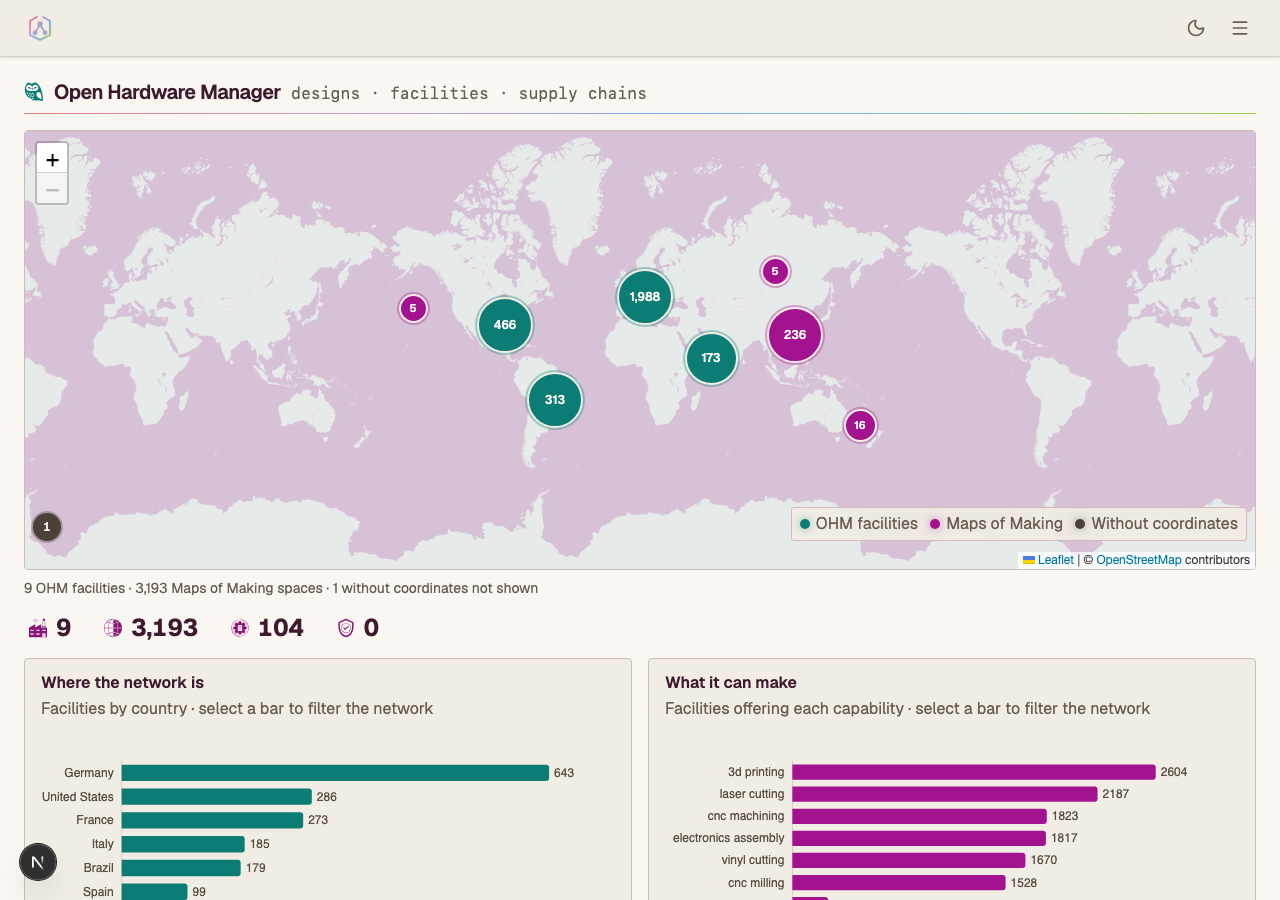
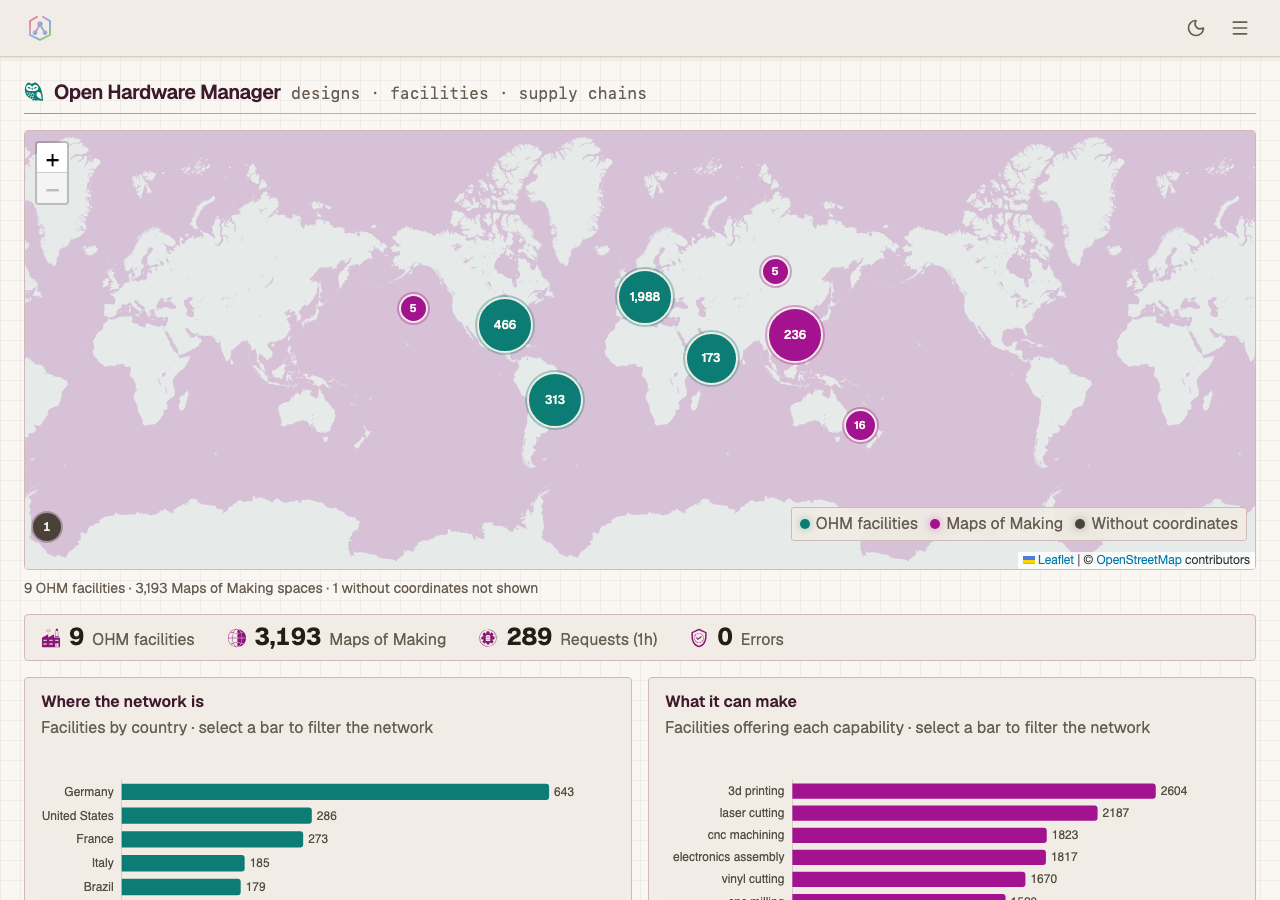
Add: README assets for keyboard, themes, a11y, and the 360px layout; correct stale frontend claims
The README described the interface's look but not the properties the suite
actually gates. The asset lane now captures eight images instead of four,
covering the theme picker, the /help keyboard and accessibility tables, the
skip link, and the dashboard at 360px, and the interface section is
restructured into Themes / Keyboard / Accessibility / Responsive.

Capture fixes in e2e/readme-assets.spec.ts:

- `next dev` mounts its dev-tools button into a <nextjs-portal>. It appeared in
  the corner of every committed screenshot and, being focusable, answered the
  first Tab — the keystroke the skip-link shot exists to photograph. Hidden via
  an injected style for all shots.
- sitemap-drawer was captured fullPage. The drawer is a viewport-height panel
  that scrolls inside itself, so a tall dashboard rendered it as a column
  ending in mid-air with the Theme and Keyboard blocks cut off. Now cropped to
  the fold.
- Fragment-anchored shots scroll after the settle, not before: the fragment
  resolves at navigation, when the target has not hydrated, and panels mounting
  above it push the heading back off screen. scrollIntoView rather than
  Playwright's scrollIntoViewIfNeeded, which treated a heading sitting in the
  last few pixels of the viewport as already in view.
- /help#h-keys and /help#h-a11y both hit the page's maximum scroll and produced
  identical images; one shot carries both tables.

Corrections to the prose:
[…]

diff --git a/frontend/e2e/readme-assets.spec.ts b/frontend/e2e/readme-assets.spec.ts
@@ -3,7 +3,7 @@ import { join } from "node:path";
 import { test } from "./mock-api";
 
 /**
- * The four images the README embeds, regenerated.
+ * The images the README embeds, regenerated.
  *
  * They were captured by hand, which is why they went stale: the dashboard shot
  * still showed Mission Control in the sitemap after it was renamed to Operator
@@ -11,15 +11,21 @@ import { test } from "./mock-api";
  * is the first thing anyone sees of this project and it was advertising an
  * interface that no longer exists.
  *
+ * The set now covers what the README claims about the interface rather than
+ * only what it looks like: the theme picker, the keyboard contract, the
+ * accessibility table, the skip link, and the 360px layout. Each of those is a
+ * gate somewhere in the suite, and a claim with no picture of it reads as
+ * marketing.
+ *
  * Run on demand, in its own lane:
  *
  *     npx playwright test --project=assets
  *
- * It captures rather than asserts, and what it writes is four committed
- * binaries — which is why it is a project of its own and not part of
- * `npm run e2e`. The first version of this file sat in the default lane, so an
- * unrelated frontend change arrived with four rewritten screenshots attached
- * and nothing to say why.
+ * It captures rather than asserts, and what it writes is committed binaries —
+ * which is why it is a project of its own and not part of `npm run e2e`. The
+ * first version of this file sat in the default lane, so an unrelated frontend
+ * change arrived with four rewritten screenshots attached and nothing to say
+ * why.
  *
  * The mocked lane supplies the data, so the catalogue and the map are the same
  * fixture world the rest of the suite runs against: repeatable, and free of
@@ -30,6 +36,12 @@ import { test } from "./mock-api";
 
 const OUT = join(import.meta.dirname, "..", "..", "docs", "assets", "ux");
 
+/** Wide enough for the two-column panels to be in their desktop layout. */
+const DESKTOP = { width: 1280, height: 900 };
+
+/** The floor the responsive lane gates at, so the README shows what it asserts. */
+const PHONE = { width: 360, height: 780 };
+
 interface Shot {
   file: string;
   path: string;
@@ -37,8 +49,14 @@ interface Shot {
   mode: "light" | "dark";
   /** Open the sitemap before capturing. */
   drawer?: boolean;
+  /** Scroll the open drawer to its foot, where Theme and Keyboard sit. */
+  drawerFoot?: boolean;
+  /** Reveal the skip link by tabbing into the page from the address bar. */
+  skipLink?: boolean;
   /** Crop to the top of the page instead of capturing its full height. */
   fold?: boolean;
+  /** Defaults to DESKTOP. */
+  viewport?: { width: number; height: number };
 }
 
 const SHOTS: Shot[] = [
@@ -63,25 +81,80 @@ const SHOTS: Shot[] = [
     mode: "dark",
     fold: true,
   },
+  // fold, not fullPage. The drawer is a viewport-height panel that scrolls
+  // inside itself, so a full-page capture of a tall dashboard rendered it as a
+  // column ending in mid-air with the Theme and Keyboard blocks cut off — the
+  // README was illustrating the sitemap with a picture of it truncated.
   {
     file: "sitemap-drawer",
     path: "/",
     theme: "ttm",
     mode: "light",
     drawer: true,
+    fold: true,
+  },
+  {
+    file: "theme-picker",
+    path: "/",
+    theme: "ttm",
+    mode: "light",
+    drawer: true,
+    drawerFoot: true,
+    fold: true,
+  },
+  // One shot, not one per section. /help ends just below the accessibility
+  // table, so anchoring on #h-keys and on #h-a11y both hit the page's maximum
+  // scroll and produced two byte-identical images. The frame they share holds
+  // both tables anyway, which is the thing worth showing: the keyboard
+  // contract and the accessibility contract, side by side and generated from
+  // the same constants the chrome uses.
+  {
+    file: "help-keyboard-accessibility",
+    path: "/help#h-keys",
+    theme: "terminal",
+    mode: "dark",
+    fold: true,
+  },
+  {
+    file: "skip-link",
+    path: "/",
+    theme: "ttm",
+    mode: "light",
+    skipLink: true,
+    fold: true,
+  },
+  {
+    file: "dashboard-mobile",
+    path: "/",
+    theme: "ocean",
+    mode: "light",
+    fold: true,
+    viewport: PHONE,
   },
 ];
 
 test.describe("README assets", () => {
-  // Wide enough that the two-column panels are in their desktop layout, which
-  // is what the README's side-by-side table is showing.
-  test.use({ viewport: { width: 1280, height: 900 } });
+  test.use({ viewport: DESKTOP });
 
   for (const shot of SHOTS) {
     test(`capture ${shot.file}`, async ({ page }) => {
       mkdirSync(OUT, { recursive: true });
-      await page.goto(`${shot.path}?theme=${shot.theme}&mode=${shot.mode}`);
+      if (shot.viewport) await page.setViewportSize(shot.viewport);
+
+      // `?theme=&mode=` goes before any #fragment, so a shot can pin the world
+      // and land on a section heading at the same time.
+      const [path, hash] = shot.path.split("#");
+      const query = `?theme=${shot.theme}&mode=${shot.mode}`;
+      await page.goto(`${path}${query}${hash ? `#${hash}` : ""}`);
       await page.waitForLoadState("networkidle");
+
+      // `next dev` mounts its own floating dev-tools button into a
+      // <nextjs-portal>. It sat in the bottom-left corner of every committed
+      // screenshot, and — being focusable — it also answered the first Tab,
+      // which is the keystroke the skip-link shot exists to photograph.
+      await page.addStyleTag({
+        content: "nextjs-portal { display: none !important; }",
+      });
 
       if (shot.drawer) {
         await page.getByRole("button", { name: "Site menu" }).click();
@@ -90,10 +163,43 @@ test.describe("README assets", () => {
         await page.waitForTimeout(400);
       }
 
+      if (shot.drawerFoot) {
+        await page
+          .getByRole("dialog", { name: "Site menu" })
+          .evaluate((el) => el.scrollTo({ top: el.scrollHeight }));
+        await page.waitForTimeout(200);
+      }
+
       // Leaflet loads its tiles lazily and the charts animate their bars up
       // from zero. Both finish well inside this, and a screenshot taken before
       // they do is the one thing a reader would notice.
       await page.waitForTimeout(1200);
+
+      // After the settle, not before it. The fragment is resolved once at
+      // navigation, when the section it names has not hydrated yet, and the
+      // panels that mount above it then push the heading back off screen — the
+      // first run of this captured the top of /help for both anchored shots.
+      //
+      // scrollIntoView, not Playwright's scrollIntoViewIfNeeded: the heading
+      // had been pushed to the last few pixels of the viewport, which counts
+      // as "in view", so the if-needed form did nothing and the shot was the
+      // top of the page a second time. This one puts the section at the top
+      // unconditionally, and honours the `scroll-mt` that keeps the sticky
+      // header off the target.
+      if (hash) {
+        await page
+          .locator(`#${hash}`)
+          .evaluate((el) => el.scrollIntoView({ block: "start" }));
+        await page.waitForTimeout(300);
+      }
+
+      if (shot.skipLink) {
+        // One Tab from a fresh load. The skip link is the first focusable
+        // thing in the document precisely so this is all it takes, and the
+        // shot is worth having because the control is invisible until it has
+        // focus — there is no other way to show that it exists.
+        await page.keyboard.press("Tab");
+      }
 
       await page.screenshot({
         path: join(OUT, `${shot.file}.png`),

diff --git a/README.md b/README.md
@@ -42,66 +42,117 @@ yourself.
 ![The dashboard — network map, live counts, and system status](docs/assets/ux/dashboard-warm-light.png)
 
 The frontend is a Next.js App Router application that ships with the API and
-serves its own UI. Everything below is themeable: one token file drives ten
-colour worlds in light and dark, and every surface — including the map, the
-supply-tree graph, and the charts — reads from it.
-
-| | |
-|---|---|
-| ![Synthwave, dark](docs/assets/ux/dashboard-synthwave-dark.png) | ![Blueprint, dark](docs/assets/ux/catalog-blueprint-dark.png) |
-| The same dashboard in Synthwave dark | The design catalog in Blueprint dark |
+serves its own UI. It is built to be driven by keyboard alone, at 360px wide, in
+light or dark, and in any of ten colour themes. Each of those is a gate in CI
+rather than a claim: **542 unit tests** and **157 Playwright E2E specs**,
+including a twenty-variant accessibility matrix and a narrow-viewport lane that
+measures every route at 360px and 768px.
 
 Every route is reachable from one hamburger sitemap, grouped by purpose, each
 entry carrying a role line rather than a bare label. Adding a page requires
 deciding nothing about its chrome.
 
-![The sitemap drawer](docs/assets/ux/sitemap-drawer.png)
+![The sitemap drawer, grouped by purpose](docs/assets/ux/sitemap-drawer.png)
 
-### Frontend features
+### Themes
 
-- **Ten theme worlds x light/dark.** Twenty palettes behind shadcn's token
-  names, so components re-theme without being edited. Colour is defined in one
-  file; a unit test fails the build on a raw hex or a hardcoded Tailwind shade
-  anywhere else.
-- **Contrast checked at runtime.** An axe scan covers all twenty variants in
-  CI, reading resolved token values rather than numbers copied into a test, so
-  a new world is covered without touching the matrix. Colours that a DOM
-  scanner cannot see — chart axis labels on a canvas, the theme picker's own
-  names — are corrected against their surface when they are chosen.
-- **Universal chrome.** One header, sitemap drawer, and footer, with focus
-  trapping, `aria-current`, skip-to-content, 44px targets, and animation behind
-  `prefers-reduced-motion`.
-- **Data surfaces on tokens.** The Leaflet map, the cytoscape supply-tree
-  graph, and the ECharts charts resolve their colours from the live token
-  layer instead of carrying private palettes. The map's raster tiles arrive
-  from a server already painted, so they are rotated onto the world's own hue
-  rather than left as the one surface a theme could not reach.
-- **Built for a phone.** The map frames where the network is dense rather than
-  fitting a world that will not fit, one-finger swipes scroll the page while
-  two fingers move the map, and charts drop the axis furniture that a narrow
-  screen only crowds.
-- **Shareable state.** The active theme and mode ride in the query string, as
-  do filters, view mode, sort, grouping, and page — so a copied URL reopens
-  what the sender was looking at.
+Ten themes x light/dark — twenty palettes behind shadcn's token names, so
+components re-theme without being edited. Colour is defined in one token file; a
+unit test fails the build on a raw hex or a hardcoded Tailwind shade anywhere
+else.
+
+![The theme picker and keyboard reference at the foot of the drawer](docs/assets/ux/theme-picker.png)
+
+Each row in the picker is drawn in its own theme's ink on its own theme's
+ground, resolved from the live tokens rather than from a second copy of the
+palette that would be free to drift.
+
+| | |
+|---|---|
+| ![Synthwave, dark](docs/assets/ux/dashboard-synthwave-dark.png) | ![Blueprint, dark](docs/assets/ux/catalog-blueprint-dark.png) |
+| The dashboard in Synthwave dark | The design catalog in Blueprint dark |
+
+Data surfaces read the same tokens. The Leaflet map, the cytoscape supply-tree
+graph, and the ECharts charts resolve their colours from the live token layer
+instead of carrying private palettes. OpenStreetMap's raster tiles arrive from
+their server already painted, so the token layer cannot reach them the way it
+reaches the rest of the page; a filter chain computed from the active theme's
+accent rotates them onto its hue instead, leaving land and water separated by
+lightness rather than flattening the tile to one wash.
+
+Theme and mode ride in the query string, as do filters, view mode, sort,
+grouping, and page, so a copied URL reopens what the sender was looking at.
+
+### Keyboard
+
+Every route in the menu has a shortcut, and the reference is generated from the
+same constants the key handler reads — a shortcut that works but is undocumented
+fails a unit test.
+
+![The keyboard and accessibility tables on /help](docs/assets/ux/help-keyboard-accessibility.png)
+
+| Keys | Action |
+|---|---|
+| `?` | open the menu, with the full reference |
+| `Esc` | close any menu or dialog, returning focus to the control that opened it |
+| `t` / `m` | next theme / light-dark |
+| `g` then `d` `k` `f` `m` `p` `r` `s` | dashboard, designs, facilities, match, packages, RFQ, settings |
+| `g` then `g` `n` `w` `h` `o` | generate from URL, new design, new facility, help, documentation |
+
+Shortcuts are ignored while typing in a field or a contenteditable editor, so a
+search box takes `g` as a letter and the JSON editor takes `t` as one.
+
+### Accessibility
+
+An axe scan covers all twenty theme variants in CI, reading token values
+resolved from the live page rather than numbers copied into a test — so adding a
+theme extends the matrix without editing it. Four feature journeys carry their
+own scans. Colours a DOM scanner cannot see, such as chart axis labels drawn on
+a canvas and the theme picker's own names, are solved against the surface they
+land on.
+
+![The skip link, revealed by the first Tab](docs/assets/ux/skip-link.png)
+
+One header, sitemap drawer, and footer serve every route, with focus trapping,
+`aria-current`, skip-to-content, 44px targets, and animation behind
+`prefers-reduced-motion`. `/help` documents the accessibility contract next to
+the keyboard one, both generated from the source the app uses.
+
+### Responsive
+
+The narrow lane runs every route at 360px and 768px and asserts two properties
+measured from the live layout: nothing overflows the viewport horizontally, and
+interactive controls meet the WCAG 2.5.8 target size. It runs a narrow desktop
+window rather than device emulation deliberately — Chrome's mobile emulation
+applies Android form-control metrics that round undersized controls up past the
+minimum, hiding the defect the lane exists to catch.
+
+![The dashboard at 360px](docs/assets/ux/dashboard-mobile.png)
+
+The map frames where the network is dense instead of fitting a whole world that
+will not fit; one-finger swipes scroll the page while two fingers move the map;
+charts drop the axis furniture a narrow screen only crowds.
+
+### Consistency and failure
+
+- **One spelling per control.** Fields, panels, and heading roles come from
+  shared constants, enforced by unit tests that read the source.
+- **One vocabulary for failures.** Every error — a dead connection, a rate
+  limit, a record that is gone — becomes a title, a sentence, and whether
+  retrying could help, so the same fault reads the same in a panel, a toast, and
+  the catch-all error page. An unknown address returns a real 404 with the
+  sitemap on it; a thrown render lands on a page that keeps the app's chrome.
 - **A deterministic demo dataset** (`make seed-demo`) — ten designs and seven
   facilities covering the golden path, with content-derived ids so deep links
   survive reseeding. The **Demo data** chip in the header is derived from the
   records themselves rather than a build flag.
-- **One spelling per control.** Fields, panels, and heading roles come from
-  shared constants, enforced by unit tests that read the source.
-- **Failures in one vocabulary.** Every error — a dead connection, a rate
-  limit, a record that is gone — becomes a title, a sentence, and whether
-  retrying could help, so the same fault reads the same in a panel, a toast,
-  and the catch-all error page. An unknown address returns a real 404 with the
-  sitemap on it, and a thrown render lands on a page that keeps the app's
-  chrome rather than the browser's default.
-- **The mark, animating, wherever you wait.** Loading states draw the product's
-  own logo — the open nut traced, its three nodes surfacing in the order the
-  edges reach them — from the same geometry the favicon is generated from.
+- **Loading states draw the product's logo** from the same geometry the favicon
+  is generated from.
 
-Verification for the whole surface: **542 unit tests** and **159 Playwright E2E
-specs**, including the twenty-variant accessibility matrix and a
-narrow-viewport lane that measures every route at 360px.
+The images above are captured, not curated: `npx playwright test
+--project=assets` regenerates all eight from the mocked fixture world, so a
+README that no longer matches the interface is a one-command fix rather than a
+screenshot session.
 
 **Two independent ways to get a demo world, both optional:**
 
@@ -263,7 +314,7 @@ docker compose down
 
 ### Reference demo frontend (optional)
 
-The repository includes a Vite + React reference UI under `frontend/`. It provides a browser-based interface for browsing OKH designs, running matches, and visualising supply-chain solutions.
+The repository includes a Next.js App Router reference UI under `frontend/` — the interface shown above. It provides a browser-based interface for browsing OKH designs, running matches, and visualising supply-chain solutions.
 
 **Step 1 — start the API** (must be running before the frontend is useful):
 
@@ -279,7 +330,7 @@ npm install   # first time only — installs JS dependencies
 npm run dev
 ```
 
-Open the URL Vite prints (typically `http://localhost:5173`).
+Open the URL Next prints (`http://localhost:5173`).
 
 The dev server proxies all `/v1` requests to the OHM API. If your API is not at the default `http://localhost:8001`, copy `frontend/.env.example` to `frontend/.env` and set `OHM_API_BASE_URL` accordingly.
 
